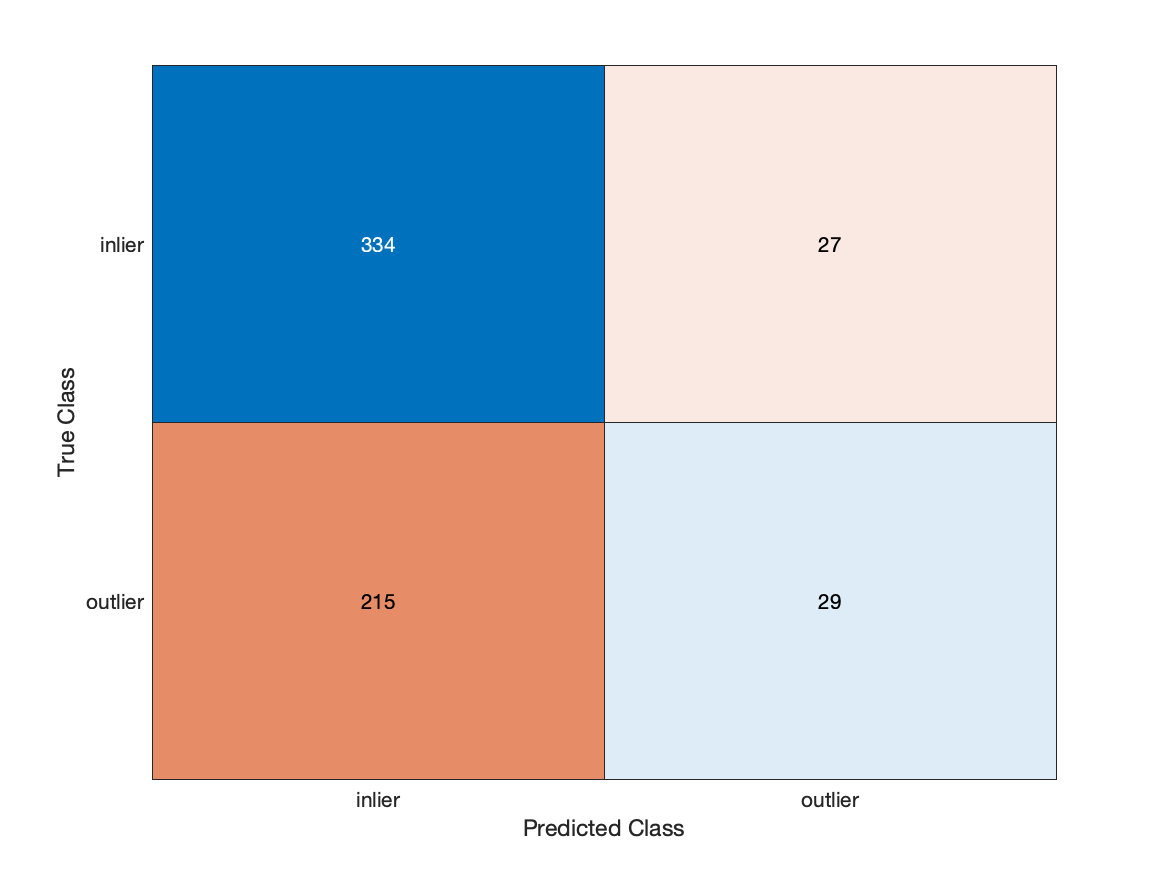
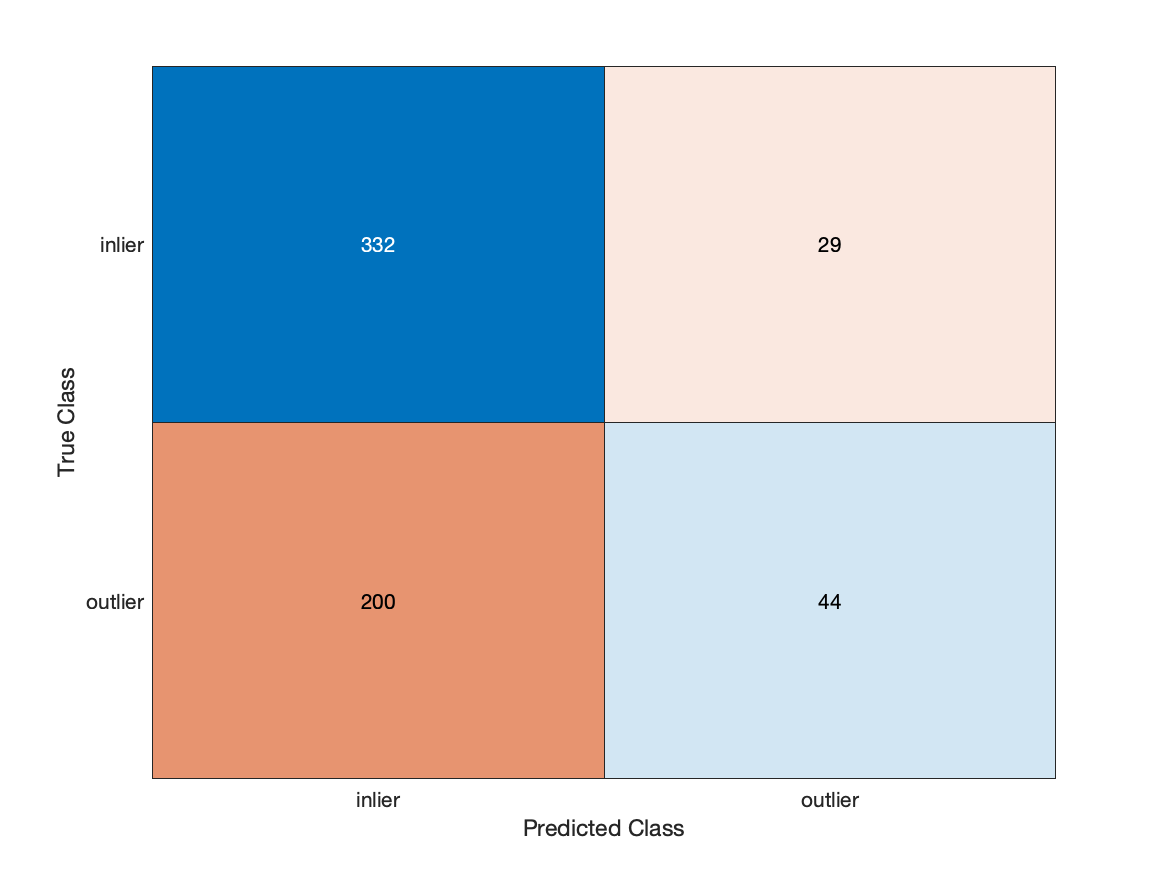
rerun careless responding

Changed region(s): [[0.6787, 0.6789, 0.7404, 0.7097], [0.3085, 0.6789, 0.3393, 0.7097]]

diff --git a/thesis/careless_responding/careless_responding.m b/thesis/careless_responding/careless_responding.m
@@ -54,7 +54,7 @@ clear Y;
 % kModel = DiracKernel();
 % kModel = M3Kernel(unlabeledData);
 % kModel = K1Kernel(unlabeledData);
-kModel = StringSubsequenceKernel(lambda=0.05,maxSubsequence=5);
+kModel = StringSubsequenceKernel(lambda=0.6, maxSubsequence=15);
 poc = kMRCD(kModel);
 
 if isequal(class(kModel), 'StringSubsequenceKernel')
